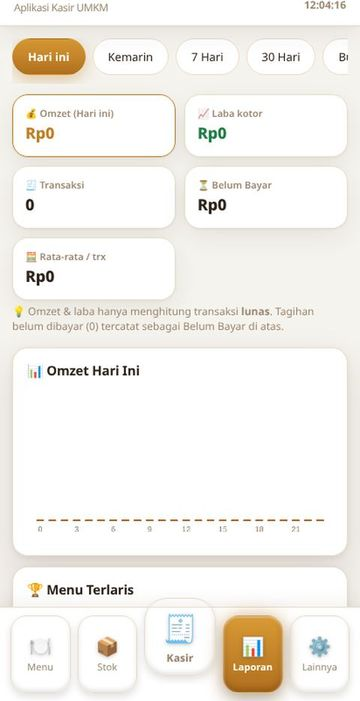
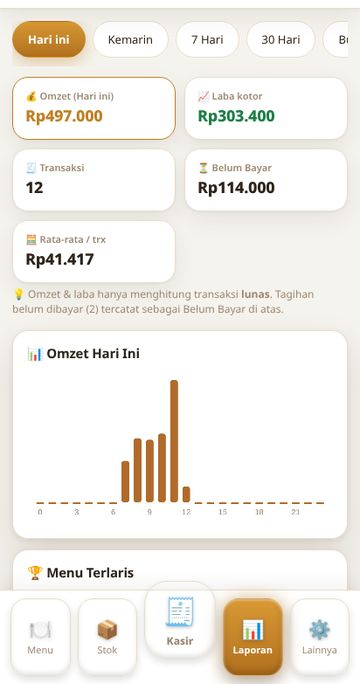
Web: data demo realistis (laporan+grafik, tagihan isi) + frame full-bleed

diff --git a/index.html b/index.html
@@ -199,10 +199,10 @@
   .phones { display: flex; gap: 26px; overflow-x: auto; scroll-snap-type: x mandatory; padding: 12px 8px 10px; scrollbar-width: none; -webkit-overflow-scrolling: touch; }
   .phones::-webkit-scrollbar { display: none; }
   .ph { flex: 0 0 auto; scroll-snap-align: center; text-align: center; margin: 0; }
-  .frame { width: 208px; border-radius: 38px; padding: 32px 9px 9px; background: linear-gradient(165deg, #2b2b34, #0f0f13); border: 1px solid rgba(255,255,255,.15); box-shadow: 0 30px 60px rgba(0,0,0,.55), 0 0 46px rgba(255,183,0,.08); position: relative; transition: transform .3s ease, box-shadow .3s ease; }
+  .frame { width: 208px; border-radius: 42px; padding: 7px; background: linear-gradient(165deg, #2b2b34, #0f0f13); border: 1px solid rgba(255,255,255,.15); box-shadow: 0 30px 60px rgba(0,0,0,.55), 0 0 46px rgba(255,183,0,.08); position: relative; transition: transform .3s ease, box-shadow .3s ease; }
   .ph:hover .frame { transform: translateY(-6px); box-shadow: 0 38px 70px rgba(0,0,0,.6), 0 0 60px rgba(255,183,0,.14); }
-  .frame .notch { position: absolute; top: 17px; left: 50%; transform: translateX(-50%); width: 82px; height: 21px; background: #0a0a0d; border-radius: 12px; z-index: 2; }
-  .frame img { width: 100%; border-radius: 29px; display: block; aspect-ratio: 360/684; object-fit: cover; background: #141419; }
+  .frame .notch { position: absolute; top: 7px; left: 50%; transform: translateX(-50%); width: 82px; height: 21px; background: #0a0a0d; border-radius: 12px; z-index: 2; }
+  .frame img { width: 100%; border-radius: 35px; display: block; aspect-ratio: 360/684; object-fit: cover; background: #141419; }
   .ph figcaption { margin-top: 14px; max-width: 208px; }
   .ph figcaption b { display: block; font-size: 16px; font-weight: 800; letter-spacing: -.2px; }
   .ph figcaption span { font-size: 13px; color: var(--mut); line-height: 1.5; display: block; margin-top: 3px; }
@@ -211,7 +211,7 @@
   .sh-btn:hover { border-color: rgba(255,213,79,.5); }
   .feat-pills { display: flex; flex-wrap: wrap; gap: 10px; justify-content: center; margin-top: 26px; }
   .feat-pills span { font-size: 13.5px; font-weight: 600; color: var(--mut); background: rgba(255,255,255,.045); border: 1px solid var(--line); padding: 9px 16px; border-radius: 999px; }
-  @media (max-width: 640px) { .sh-btn { display: none; } .frame { width: 188px; } .ph figcaption { max-width: 188px; } }
+  @media (max-width: 640px) { .sh-btn { display: none; } .frame { width: 186px; } .ph figcaption { max-width: 188px; } }
   /* kartu fitur bergambar */
   .feat { padding: 0; overflow: hidden; }
   .fshot { aspect-ratio: 16/10; overflow: hidden; border-bottom: 1px solid var(--line); background: #0e0e12; }
